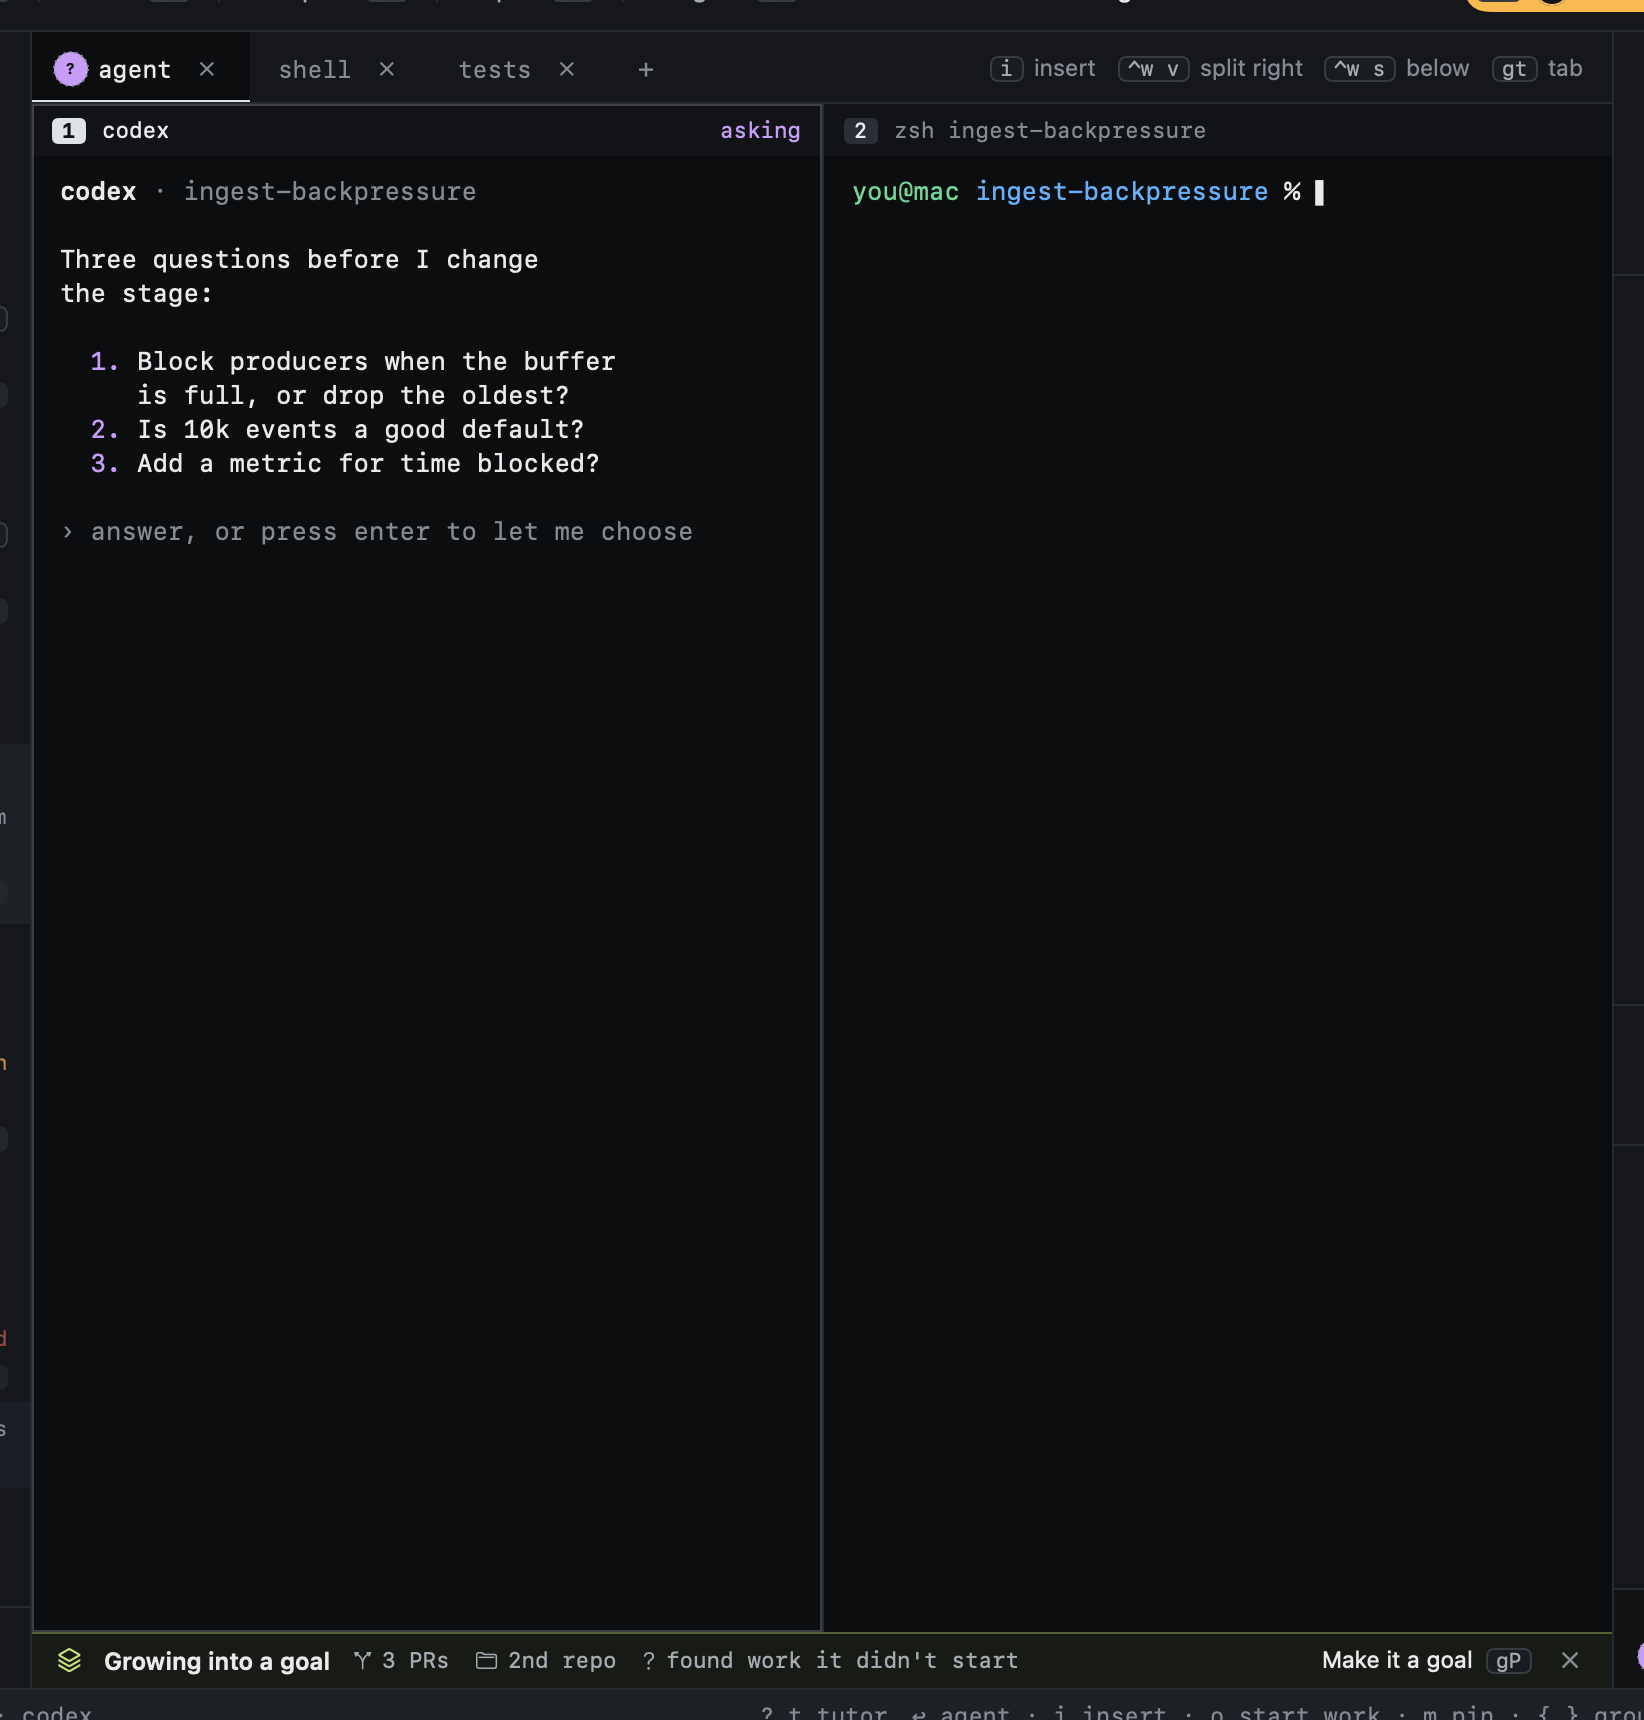
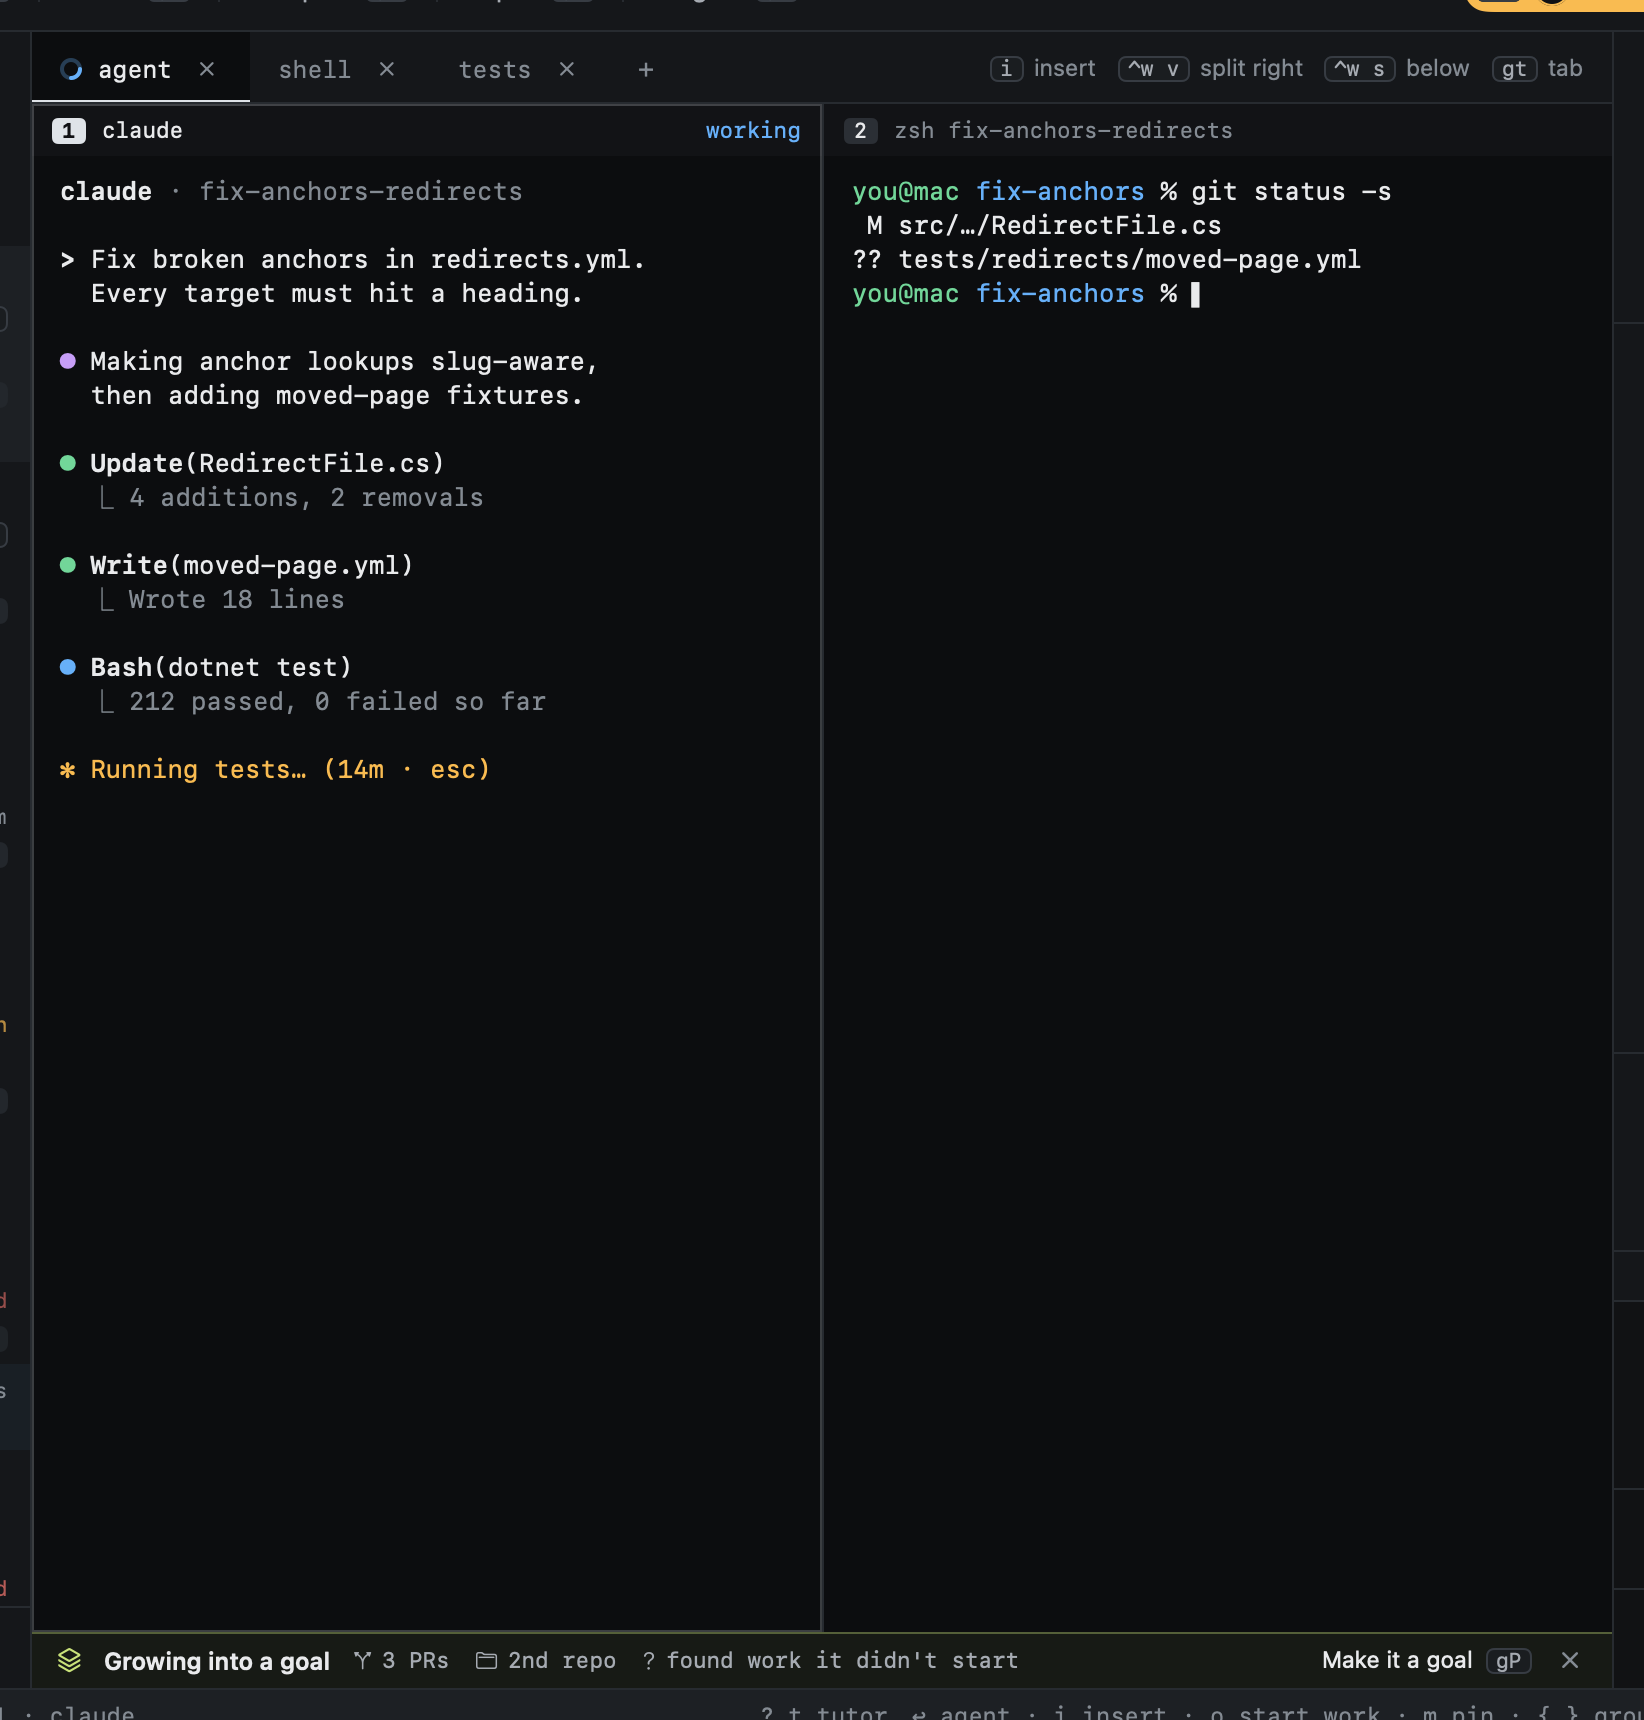
Make it a goal names found work briefly, and its shots tell one story
What the session found is a short phrase now: a cheap model call names it (FoundWork) when the popover opens, and
until it answers, or without one, the clause that says it ("its old links still break", "a change in
docs-website"). The growing-session shots use the anchors session itself, taken off its goal, so the terminal, the
line and the popover agree. The line's key cap reads gP from the keymap, and the popover's buttons read theirs.

diff --git a/Sources/HeedCore/Goals/GoalPromotion.swift b/Sources/HeedCore/Goals/GoalPromotion.swift
@@ -55,9 +55,9 @@ public struct GoalGrowth: Hashable, Sendable {
         "should also",
     ]
 
-    /// The sentences of the agent's last message that name work it found and did not start, at most three, each cut
-    /// to 64 characters.
-    public static func found(in message: String?) -> [String] {
+    /// The sentences of the agent's last message that name work it found and did not start, at most three: what a
+    /// model call summarises (`FoundWork`).
+    public static func foundSentences(in message: String?) -> [String] {
         guard let message, !message.isEmpty else { return [] }
         var sentences: [String] = []
         var current = ""
@@ -69,14 +69,82 @@ public struct GoalGrowth: Hashable, Sendable {
             }
         }
         sentences.append(current)
-        return sentences
-            .map { $0.trimmingCharacters(in: .whitespacesAndNewlines.union(CharacterSet(charactersIn: "-*•"))) }
-            .filter { sentence in
-                let lower = sentence.lowercased()
-                return markers.contains { lower.contains($0) }
-            }
-            .prefix(3)
-            .map { $0.count > 64 ? String($0.prefix(63)) + "…" : $0 }
+        return Array(
+            sentences
+                .map { $0.trimmingCharacters(in: .whitespacesAndNewlines.union(CharacterSet(charactersIn: "-*•"))) }
+                .filter { sentence in markers.contains { sentence.lowercased().contains($0) } }
+                .prefix(3)
+        )
+    }
+
+    /// What was found, short, without a model: per sentence the clause that names it ("its old links still break",
+    /// "a change in docs-website"), or what follows "Follow-up:"; at most 48 characters each.
+    public static func found(in message: String?) -> [String] {
+        foundSentences(in: message).map(clause)
+    }
+
+    static func clause(_ sentence: String) -> String {
+        var text = sentence.trimmingCharacters(in: CharacterSet(charactersIn: ".!? "))
+        // "Out of scope: the theme" names the work after the colon.
+        if let colon = text.firstIndex(of: ":") {
+            let head = text[..<colon].lowercased()
+            let tail = text[text.index(after: colon)...].trimmingCharacters(in: .whitespaces)
+            if markers.contains(where: { head.contains($0) }), !tail.isEmpty { text = tail }
+        }
+        let clauses = text.split(whereSeparator: { ",;:".contains($0) }).map {
+            $0.trimmingCharacters(in: .whitespaces)
+        }
+        var picked = clauses.first { clause in markers.contains { clause.lowercased().contains($0) } }
+            ?? clauses.first ?? text
+        for lead in ["so ", "but ", "and ", "then ", "that's ", "that is ", "this is ", "it's ", "which "]
+            where picked.lowercased().hasPrefix(lead)
+        {
+            picked = String(picked.dropFirst(lead.count))
+        }
+        picked = picked.trimmingCharacters(in: .whitespaces)
+        return picked.count > 48 ? String(picked.prefix(47)) + "…" : picked
+    }
+}
+
+/// What a session found, as short noun phrases ("the website's vendored slug copy", "a sample-site proof"), from one
+/// cheap model call when there is one; `GoalGrowth.found`'s clauses stand in until it answers, or when it cannot.
+public enum FoundWork {
+    public typealias Run = @Sendable (LLMRequest) async throws -> LLMResponse
+
+    static let system = """
+    You turn what a coding agent said it found and did not start into short noun phrases, one per piece of work, of \
+    at most six words each, lowercase unless a name, no period: "the website's vendored slug copy", "a sample-site \
+    proof". Only work it names; at most three. Reply with only the JSON the schema asks for.
+    """
+
+    static let schema = """
+    {"type":"object","properties":{"items":{"type":"array","items":{"type":"string"},"maxItems":3}},\
+    "required":["items"],"additionalProperties":false}
+    """
+
+    /// The call: you pressed gP, so it goes first.
+    public static func request(_ sentences: [String]) -> LLMRequest {
+        LLMRequest(
+            call: LLMCall(system: system, prompt: sentences.joined(separator: "\n"), schema: schema),
+            priority: .interactive, caller: "goal.promote", operation: "name found work"
+        )
+    }
+
+    /// The phrases from the call's JSON, one line each and at most 48 characters; nil when there are none.
+    public static func read(_ json: Data?) -> [String]? {
+        guard let json, let object = try? JSONSerialization.jsonObject(with: json) as? [String: Any],
+              let items = object["items"] as? [String]
+        else { return nil }
+        let phrases = items.map { GoalDoc.oneLine($0).trimmingCharacters(in: CharacterSet(charactersIn: ". ")) }
+            .filter { !$0.isEmpty }.prefix(3)
+            .map { $0.count > 48 ? String($0.prefix(47)) + "…" : $0 }
+        return phrases.isEmpty ? nil : Array(phrases)
+    }
+
+    /// The phrases for `sentences`, or nil (no sentences, the call failed, nothing usable).
+    public static func summarise(_ sentences: [String], run: Run) async -> [String]? {
+        guard !sentences.isEmpty, let response = try? await run(request(sentences)) else { return nil }
+        return read(response.json)
     }
 }
 

diff --git a/Tests/HeedCoreTests/GoalPromotionTests.swift b/Tests/HeedCoreTests/GoalPromotionTests.swift
@@ -46,9 +46,8 @@ struct GoalGrowthTests {
         #expect(repos.signs == ["2nd repo"])
         let foundWork = try #require(growth(session(last: found)))
         #expect(foundWork.signs == ["found work it didn't start"])
-        // Both sentences name work left: the website's links still break, and a change in another repo.
-        #expect(foundWork.found.count == 2)
-        #expect(foundWork.found.last?.hasPrefix("That's a change in docs-website") == true)
+        // Both sentences name work left, each as the clause that says it.
+        #expect(foundWork.found == ["its old links still break", "a change in docs-website"])
     }
 
     @Test func chatsSessionsOnAGoalAndOnesSetAsideNeverGrow() {
@@ -58,15 +57,26 @@ struct GoalGrowthTests {
         #expect(growth(session(pulls: [pull(1), pull(2)], repos: [], chat: true)) == nil)
     }
 
-    @Test func foundWorkIsTheSentencesThatSayItAtMostThree() {
+    @Test func foundWorkIsTheClauseThatSaysItAtMostThree() {
         #expect(GoalGrowth.found(in: nil).isEmpty)
         #expect(GoalGrowth.found(in: "All green. Merged.").isEmpty)
         let many = "A follow-up: the slugs. Out of scope: the theme. Not started: search. Another PR for tests. Done."
-        #expect(GoalGrowth.found(in: many) == [
-            "A follow-up: the slugs.", "Out of scope: the theme.", "Not started: search.",
-        ])
+        #expect(GoalGrowth.foundSentences(in: many).count == 3)
+        #expect(GoalGrowth.found(in: many) == ["the slugs", "the theme", "search"])
         let long = "This still needs " + String(repeating: "x", count: 100)
-        #expect(GoalGrowth.found(in: long).first?.count == 64)
+        #expect(GoalGrowth.found(in: long).first?.count == 48)
+    }
+
+    @Test func aModelNamesFoundWorkAndAFailureLeavesTheClauses() async {
+        let json = #"{"items": ["the website's vendored slug copy.", " a sample-site proof ", ""]}"#
+        let named = await FoundWork.summarise(["x"]) { request in
+            #expect(request.call.schema != nil)
+            return LLMResponse(text: json, json: Data(json.utf8), agent: "claude")
+        }
+        #expect(named == ["the website's vendored slug copy", "a sample-site proof"])
+        #expect(await FoundWork.summarise([]) { _ in throw LLMError.disabled } == nil)
+        #expect(await FoundWork.summarise(["x"]) { _ in throw LLMError.disabled } == nil)
+        #expect(FoundWork.read(Data(#"{"items": []}"#.utf8)) == nil)
     }
 }
 

diff --git a/Sources/HeedApp/Shots/Shots.swift b/Sources/HeedApp/Shots/Shots.swift
@@ -215,18 +215,13 @@ enum Shots {
     static let bigPrompt = "Make anchors survive page moves everywhere: redirects resolve to the right heading, the "
         + "build fails on a broken anchor, the docs site keeps old links working, and the sample site proves it."
 
-    /// The ingest session reworked into one growing into a goal: s1's three PRs (one merged), a second repo through
-    /// them, and its agent naming work it did not start. On no goal, unlike s1.
+    /// The anchors session (claude, docs-toolkit, three PRs, one merged, a second repo through them) taken off its
+    /// goal, its agent naming the work it found and did not start: so it is growing into one.
     static func growingSession(_ model: AppModel) {
-        guard var session = model.sessions.first(where: { $0.id == "s3" }) else { return }
-        session.title = "Fix broken anchors in redirects"
-        session.prompt = "Make a page that moves keep every inbound anchor working."
-        let toolkit = Repo(org: "acme", name: "docs-toolkit"), website = Repo(org: "acme", name: "docs-website")
-        session.repos = [toolkit]
-        session.trackedPRs = [
-            PullRef(repo: toolkit, number: 2841), PullRef(repo: website, number: 1920),
-            PullRef(repo: toolkit, number: 2836),
-        ]
+        var goals = model.goals.snapshot
+        goals.links.removeAll { $0.target == "s1" }
+        model.goals.apply(goals)
+        guard var session = model.sessions.first(where: { $0.id == "s1" }) else { return }
         session.lastMessage = "The redirects are fixed, but the website vendors its own slug code, so its old links "
             + "still break. That's a change in docs-website, and the sample site should prove both."
         model.commit(.sessionUpserted(session))

diff --git a/Sources/HeedApp/Views/GoalStartViews.swift b/Sources/HeedApp/Views/GoalStartViews.swift
@@ -139,7 +139,7 @@ struct GrowthLine: View {
             Spacer(minLength: 8)
             HStack(spacing: 6) {
                 Text("Make it a goal").foregroundStyle(Theme.fg)
-                KeyCap(text: model.keyText(for: "goal.promote", in: "sessions"))
+                KeyCap(text: model.keyText(for: "goal.promote", asIn: "sessions"))
             }
             .font(Theme.ui(11.5))
             .clickRuns(CommandInvocation(name: "goal.promote"))
@@ -181,9 +181,9 @@ struct PromotionPopover: View {
                 }
             }
             HStack(spacing: 8) {
-                button("Open the plan step", key: "⌘↩", primary: true, command: "goal.promote.go")
-                button("Not now", key: "x", command: "goal.promote.dismiss")
-                button("Cancel", key: "⎋", command: "goal.promote")
+                button("Open the plan step", primary: true, command: "goal.promote.go")
+                button("Not now", command: "goal.promote.dismiss")
+                button("Cancel", command: "goal.promote")
             }
             .padding(.top, 2)
         }
@@ -204,10 +204,11 @@ struct PromotionPopover: View {
         }
     }
 
-    private func button(_ label: String, key: String, primary: Bool = false, command: String) -> some View {
+    /// Its key as the keymap has it in the popover's scope (↩, x, ⎋ by default).
+    private func button(_ label: String, primary: Bool = false, command: String) -> some View {
         HStack(spacing: 6) {
             Text(label).fontWeight(primary ? .semibold : .regular)
-            KeyCap(text: key)
+            KeyCap(text: model.keyText(for: command, in: "sessionspromote"))
         }
         .font(Theme.ui(12.5))
         .foregroundStyle(primary ? Theme.ink : Theme.fg)

diff --git a/Sources/HeedApp/Model/AppModel+GoalStart.swift b/Sources/HeedApp/Model/AppModel+GoalStart.swift
@@ -101,6 +101,24 @@ extension AppModel {
         goalPromotion = GoalPromotion.draft(session, growth: goalGrowth(for: session)) { [github] ref in
             github.pull(ref).map { ($0.state, $0.title) }
         }
+        nameFoundWork(of: session)
+    }
+
+    /// What the session found, named by a cheap model call while the popover shows its clauses; never in the fake
+    /// world. An answer for a popover since closed or moved is dropped.
+    private func nameFoundWork(of session: Session) {
+        let sentences = GoalGrowth.foundSentences(in: session.lastMessage)
+        guard !isFixture, !sentences.isEmpty else { return }
+        let run: FoundWork.Run = { [weak self] request in
+            guard let self else { throw LLMError.disabled }
+            return try await runLLM(request)
+        }
+        Task { [weak self] in
+            guard let named = await FoundWork.summarise(sentences, run: run), let self,
+                  goalPromotion?.session == session.id
+            else { return }
+            goalPromotion?.found = named
+        }
     }
 
     /// `goal.promote.go`: the goal made with the session on it (its merged PRs done, what it found planned), and its
@@ -132,7 +150,7 @@ extension AppModel {
         goalPromotion = nil
         promotionsSetAside.insert(id)
         if !isFixture { UserDefaults.standard.set(promotionsSetAside.sorted(), forKey: "promotionsSetAside") }
-        say("not now: \(keyText(for: "goal.promote", in: "sessions")) still makes it a goal")
+        say("not now: \(keyText(for: "goal.promote", asIn: "sessions")) still makes it a goal")
     }
 
     /// The popover belongs to the session it was opened on: moving to another closes it.
